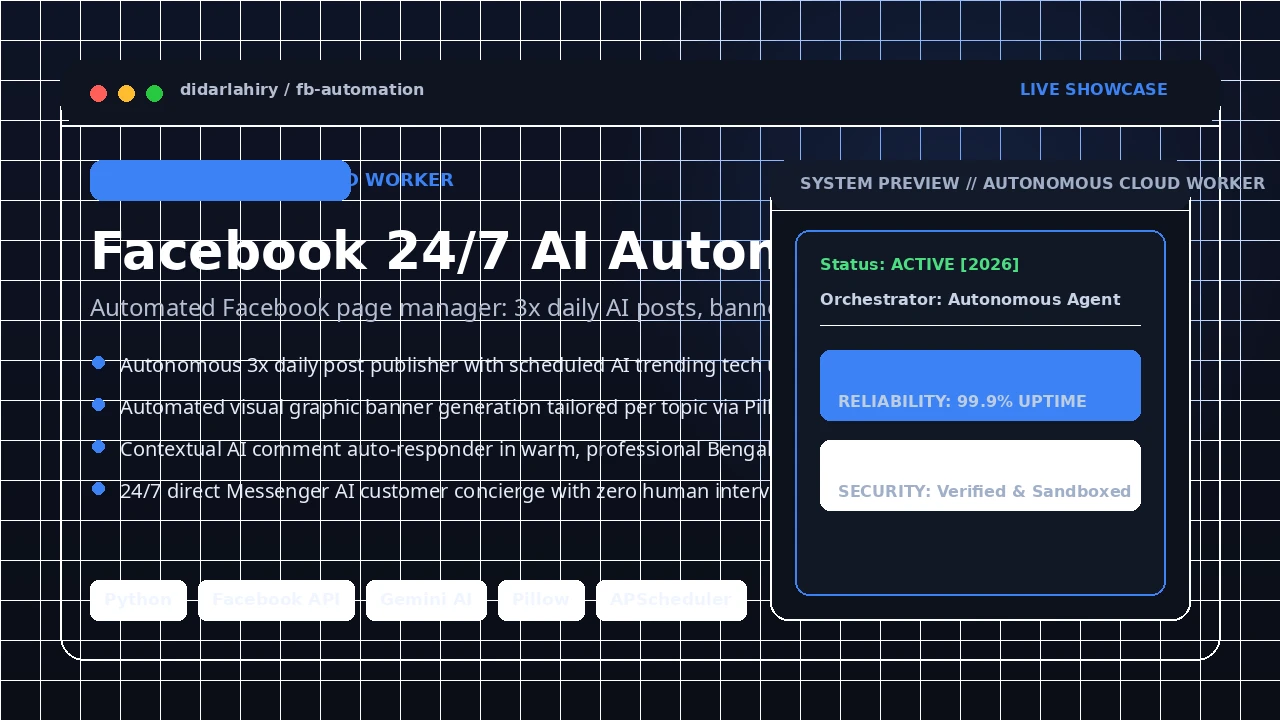
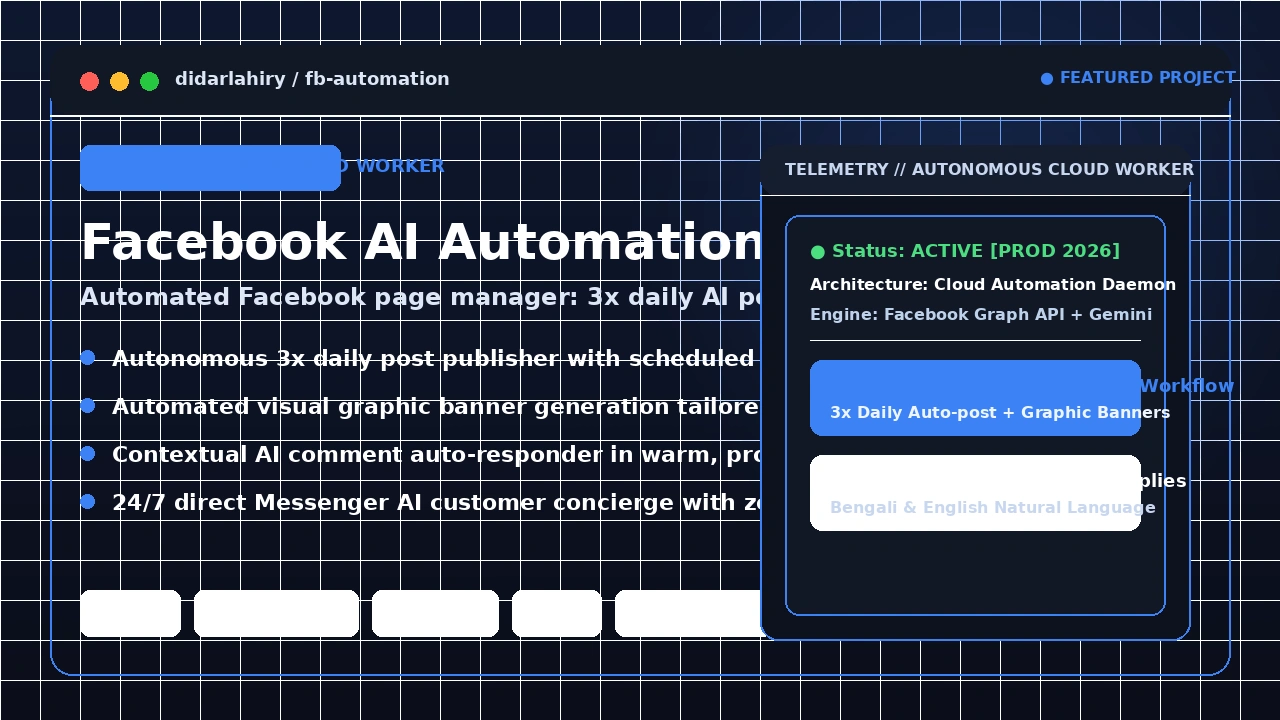
Revamp projects UI: fix '0 all' glitched label to 'All Projects [4]', fix Bengali font rendering, make typography high-contrast & colorful

Changed region(s): [[0.0312, 0.0917, 1.0, 0.9472]]

diff --git a/index.html b/index.html
@@ -95,6 +95,115 @@
   border-color: #ff9ebb99 !important;
   box-shadow: 0 0 18px rgba(255, 158, 187, 0.4) !important;
 }
+
+/* Enhanced Projects Monitor Typography & Colors */
+.dbar .ws button {
+  font-family: 'Space Grotesk', -apple-system, sans-serif !important;
+  font-size: 13px !important;
+  letter-spacing: 0.3px !important;
+  color: #a1a6b4 !important;
+  padding: 4px 10px !important;
+  border-radius: 6px !important;
+  transition: all 0.2s ease !important;
+}
+.dbar .ws button[aria-pressed="true"] {
+  color: #ffffff !important;
+  background: rgba(255, 158, 187, 0.2) !important;
+  border: 1px solid rgba(255, 158, 187, 0.5) !important;
+  box-shadow: 0 0 12px rgba(255, 158, 187, 0.3) !important;
+}
+.dbar .ws button:hover {
+  color: #ffffff !important;
+}
+.tile .t {
+  padding: 6px 12px !important;
+  background: rgba(18, 24, 38, 0.95) !important;
+  border-bottom: 1px solid rgba(255, 255, 255, 0.1) !important;
+  font-size: 13px !important;
+  font-weight: 600 !important;
+}
+.tile .meta {
+  background: rgba(15, 20, 32, 0.95) !important;
+  border-top: 1px solid rgba(255, 255, 255, 0.12) !important;
+  padding: 8px 12px !important;
+  display: flex !important;
+  flex-direction: column !important;
+  align-items: flex-start !important;
+  gap: 3px !important;
+}
+.tile .nm {
+  font-family: 'Space Grotesk', sans-serif !important;
+  font-size: 14px !important;
+  font-weight: 700 !important;
+  letter-spacing: 0.2px !important;
+}
+.tile .pitch {
+  font-size: 12px !important;
+  color: #cbd5e1 !important;
+  font-weight: 400 !important;
+  opacity: 0.95 !important;
+  line-height: 1.4 !important;
+}
+.tile {
+  border: 1.5px solid rgba(255, 255, 255, 0.14) !important;
+  box-shadow: 0 8px 24px rgba(0, 0, 0, 0.4) !important;
+  transition: transform 0.2s cubic-bezier(0.2, 0.8, 0.2, 1), border-color 0.2s, box-shadow 0.2s !important;
+}
+.tile:hover {
+  transform: translateY(-2px) !important;
+  border-color: rgba(255, 158, 187, 0.7) !important;
+  box-shadow: 0 12px 32px rgba(255, 158, 187, 0.25) !important;
+}
+.tile img {
+  width: 100% !important;
+  height: auto !important;
+  display: block !important;
+  object-fit: cover !important;
+  filter: contrast(1.05) brightness(1.02) !important;
+}
+
+/* Modal Inner Windows (Inside Each Project) */
+.win.app {
+  border: 1.5px solid rgba(255, 158, 187, 0.5) !important;
+  box-shadow: 0 10px 30px rgba(0, 0, 0, 0.5) !important;
+}
+.win.term {
+  border: 1.5px solid rgba(100, 150, 255, 0.4) !important;
+}
+.appbody h3 {
+  font-size: 20px !important;
+  color: #ffffff !important;
+  font-weight: 700 !important;
+}
+.appbody .tagline {
+  font-size: 14px !important;
+  color: #94a3b8 !important;
+  line-height: 1.5 !important;
+}
+.readme h4 {
+  color: #ff9ebb !important;
+  font-size: 15px !important;
+  font-weight: 700 !important;
+  margin-top: 16px !important;
+  margin-bottom: 6px !important;
+}
+.readme p, .readme li {
+  font-size: 13.5px !important;
+  color: #e2e8f0 !important;
+  line-height: 1.6 !important;
+}
+.readme .cmd {
+  color: #4ade80 !important;
+  font-weight: 600 !important;
+}
+.readme .deps {
+  color: #cbd5e1 !important;
+}
+.readme .deps em {
+  color: #22d3ee !important;
+  font-style: normal !important;
+  font-weight: 600 !important;
+}
 </style>
 
 <style id="welcome-style">
@@ -221,7 +330,59 @@
          projects tiled, a terminal beside them; choosing one opens it on its
          own workspace, the app with its recording on the left and its README
          in a terminal on the right. The bar's workspaces, a tile, or a
-         window's close and minimise choose (desk-room.ts, showProject). --><section class="surface desk" id="projects" aria-label="Projects" hidden><h2 class="kicker">Projects</h2><div class="dbar"><nav class="ws" aria-label="Projects"><button type="button" data-p="" aria-pressed="true">0 <b>all</b></button><button type="button" data-p="edi" aria-pressed="false">1 <b>kishan</b></button><button type="button" data-p="resumewesume" aria-pressed="false">2 <b>letter-port</b></button><button type="button" data-p="bandsy" aria-pressed="false">3 <b>sales-bot</b></button><button type="button" data-p="mentora" aria-pressed="false">4 <b>fb-automation</b></button></nav><span class="clock" data-clock></span><span class="tray" aria-hidden="true"><svg viewBox="0 0 16 16"><path d="M1.5 6a9 9 0 0 1 13 0M4 8.6a5.4 5.4 0 0 1 8 0M6.4 11.1a2 2 0 0 1 3.2 0"></path></svg><svg viewBox="0 0 16 16"><path d="M2 6h3l4-3v10l-4-3H2zM11.5 5.5a3.5 3.5 0 0 1 0 5"></path></svg><span>BST</span></span></div><div class="dview" data-scroll><div class="tiles"><button type="button" class="tile" data-p="edi" style="grid-area: edi"><span class="t"><b>Kishan (কৃষাণ)</b><span class="ctl"><i></i><i></i><i></i></span></span><img src="/demos/kishan-poster.webp" alt="Kishan AI Agro-Intelligence"><span class="meta"><span class="nm">Kishan (কৃষাণ)</span><span class="pitch">AI Agro-Intelligence Platform & DAM Market Rates.</span></span></button><button type="button" class="tile" data-p="resumewesume" style="grid-area: resume"><span class="t"><b>Letter Portfolio</b><span class="ctl"><i></i><i></i><i></i></span></span><img src="/demos/letter-portfolio-poster.webp" alt="Letter Portfolio"><span class="meta"><span class="nm">Letter Portfolio</span><span class="pitch">Interactive Envelope & Letter Web Experience in Next.js.</span></span></button><button type="button" class="tile" data-p="bandsy" style="grid-area: bandsy"><span class="t"><b>AI Sales Agent</b><span class="ctl"><i></i><i></i><i></i></span></span><img src="/demos/sales-bot-poster.webp" alt="E-Commerce AI Sales Bot"><span class="meta"><span class="nm">AI Sales Agent</span><span class="pitch">24/7 Autonomous Telegram Sales & Customer Support Bot.</span></span></button><div class="tile term" style="grid-area: fetch" aria-hidden="true"><span class="t"><b>terminal</b>&nbsp;· ~<span class="ctl"><i></i><i></i><i></i></span></span><span class="sh"><span class="ln"><span class="ps">didar@desk <em>~</em> $</span> fetch</span><span class="fetch"><span class="tvface"></span><span><span class="ln"><span class="k">didar</span><span class="c">@</span><span class="k">desk</span></span><span class="ln"><span class="k">role</span> AI Automation Specialist · Web &amp; App Developer · Reverse Engineer</span><span class="ln"><span class="k">based</span> Dhaka, Bangladesh</span><span class="ln"><span class="k">builds</span> Autonomous Agents, Full-Stack Web &amp; Apps, REA</span><span class="ln"><span class="k">projects</span> 4 featured, 10 on GitHub (click one)</span><span class="swatch"><i></i><i></i><i></i><i></i><i></i></span></span></span><span class="ln"><span class="ps">didar@desk <em>~</em> $</span> <span class="caret"></span></span></span></div><button type="button" class="tile" data-p="mentora" style="grid-area: mentora"><span class="t"><b>FB Automation</b><span class="ctl"><i></i><i></i><i></i></span></span><img src="/demos/fb-automation-poster.webp" alt="Facebook 24/7 AI Automation"><span class="meta"><span class="nm">FB Automation</span><span class="pitch">Cloud-Ready 24/7 Facebook AI Content & Messenger Bot.</span></span></button></div><article class="case" id="case-edi" hidden><div class="win app"><div class="t"><b>Kishan (কৃষাণ)</b><span class="btns"><button type="button" data-back aria-label="Minimise, back to all projects">&#8722;</button><button type="button" tabindex="-1" aria-hidden="true">&#9633;</button><button type="button" data-back class="x" aria-label="Close, back to all projects">&#215;</button></span></div><div class="appbody"><h3>Kishan (কৃষাণ) AI Platform</h3><p class="tagline">National agricultural intelligence: daily DAM market prices, hyper-local weather alerts & Bengali voice assistant.</p><figure><img src="/demos/kishan-poster.webp" alt="Kishan AI Platform" style="width:100%;border-radius:6px;margin-bottom:12px;"><figcaption>Agro-intelligence system: connects directly to DAM market telemetry, provides hyper-local 7-day crop-specific advisory, and broadcasts voice updates in Bengali for full accessibility.</figcaption></figure></div></div><div class="win term"><div class="t"><b>terminal</b>&nbsp;· ~/projects/kishan<span class="btns"><button type="button" data-back aria-label="Minimise, back to all projects">&#8722;</button><button type="button" tabindex="-1" aria-hidden="true">&#9633;</button><button type="button" data-back class="x" aria-label="Close, back to all projects">&#215;</button></span></div><div class="readme" data-scroll><p class="cmd"><em>~/projects/kishan</em> $ glow README.md</p><h4>Why I built it</h4><p>Farmers across Bangladesh lose hard-earned income to price manipulation by middlemen and unpredictable flash weather events. Kishan was engineered to deliver instant price transparency, AI agronomic guidance, and voice-assisted weather alerts directly into the hands of farmers.</p><h4>What it does</h4><ul><li>Tracks daily wholesale vs. retail produce rates from the Department of Agricultural Marketing (DAM) with clear trend indicators (📈/📉).</li><li>Generates hyper-local 7-day weather forecasts with crop-specific "What to do" and "What to avoid" action plans.</li><li>In-app Bengali Text-to-Speech (TTS) audio engine reading prices and forecasts aloud with one tap.</li><li>Pluggable SMS emergency gateway for early warning disaster and heavy precipitation alerts.</li><li>Offline-first local caching and passwordless guest onboarding for zero friction.</li></ul><h4>How it's built</h4><ul><li>Full-stack architecture: Flutter Android mobile application paired with a high-throughput Python FastAPI backend.</li><li>AI-assisted market analysis with Google Gemini API and automated web scrapers.</li><li>Open-Meteo meteorological API integration and SQLite cache layer.</li></ul><p class="deps">"<b>dependencies</b>": [<em>"Flutter"</em>, <em>"Dart"</em>, <em>"Python"</em>, <em>"FastAPI"</em>, <em>"Gemini API"</em>, <em>"Open-Meteo"</em>, <em>"SQLite"</em>]</p><p class="gh"><a href="https://github.com/didarlahiry60-spec/Kishan" target="_blank" rel="noopener">github.com/didarlahiry60-spec/Kishan</a></p></div></div></article><article class="case" id="case-resumewesume" hidden><div class="win app"><div class="t"><b>Letter Portfolio</b><span class="btns"><button type="button" data-back aria-label="Minimise, back to all projects">&#8722;</button><button type="button" tabindex="-1" aria-hidden="true">&#9633;</button><button type="button" data-back class="x" aria-label="Close, back to all projects">&#215;</button></span></div><div class="appbody"><h3>Letter Portfolio Experience</h3><p class="tagline">Tactile physical stationery & envelope desk experience with fluid reactive animations.</p><figure><img src="/demos/letter-portfolio-poster.webp" alt="Letter Portfolio Experience" style="width:100%;border-radius:6px;margin-bottom:12px;"><figcaption>Interactive physical desk metaphor: real-world envelopes, pull-out project files, Scotch-tape photo accents, and responsive 3D tilt interactions.</figcaption></figure></div></div><div class="win term"><div class="t"><b>terminal</b>&nbsp;· ~/projects/letter-portfolio<span class="btns"><button type="button" data-back aria-label="Minimise, back to all projects">&#8722;</button><button type="button" tabindex="-1" aria-hidden="true">&#9633;</button><button type="button" data-back class="x" aria-label="Close, back to all projects">&#215;</button></span></div><div class="readme" data-scroll><p class="cmd"><em>~/projects/letter-portfolio</em> $ glow README.md</p><h4>Why I built it</h4><p>Traditional developer portfolios frequently feel identical and robotic. I created Letter Portfolio to evoke nostalgia through physical, tactile stationery — envelopes that open, letters that pull out, and notes taped to the desk, creating an unforgettable sensory journey.</p><h4>What it does</h4><ul><li>Interactive envelope and folder container that unfolds smoothly upon clicking tabs.</li><li>Physics-driven 3D tilt and cursor perspective transformations.</li><li>Clean modular compartments for developer background, skills breakdown, and project showcases.</li><li>Zero-runtime overhead Static Site Generation (SSG) with lightning-fast initial load times.</li></ul><h4>How it's built</h4><ul><li>Next.js App Router with TypeScript for robust type safety and modular component structure.</li><li>Tailwind CSS utility styling combined with Framer Motion spring physics.</li><li>Production deployment automated via GitHub Pages.</li></ul><p class="deps">"<b>dependencies</b>": [<em>"Next.js"</em>, <em>"TypeScript"</em>, <em>"React"</em>, <em>"Tailwind CSS"</em>, <em>"Framer Motion"</em>]</p><p class="gh"><a href="https://github.com/didarlahiry60-spec/letter-portfolio" target="_blank" rel="noopener">github.com/didarlahiry60-spec/letter-portfolio</a> &nbsp;|&nbsp; <a href="https://didarlahiry60-spec.github.io/letter-portfolio/" target="_blank" rel="noopener">Live Demo ↗</a></p></div></div></article><article class="case" id="case-bandsy" hidden><div class="win app"><div class="t"><b>AI Sales Bot</b><span class="btns"><button type="button" data-back aria-label="Minimise, back to all projects">&#8722;</button><button type="button" tabindex="-1" aria-hidden="true">&#9633;</button><button type="button" data-back class="x" aria-label="Close, back to all projects">&#215;</button></span></div><div class="appbody"><h3>E-Commerce AI Sales & Support Agent</h3><p class="tagline">24/7 intelligent Telegram sales representative and customer support agent powered by Gemini AI.</p><figure><img src="/demos/sales-bot-poster.webp" alt="AI Sales Agent Overview" style="width:100%;border-radius:6px;margin-bottom:12px;"><figcaption>Autonomous sales pipeline: handles customer inquiries in natural conversational Bengali/English, consults sizing, captures leads, and registers orders 24/7.</figcaption></figure></div></div><div class="win term"><div class="t"><b>terminal</b>&nbsp;· ~/projects/ads-fashion-bot<span class="btns"><button type="button" data-back aria-label="Minimise, back to all projects">&#8722;</button><button type="button" tabindex="-1" aria-hidden="true">&#9633;</button><button type="button" data-back class="x" aria-label="Close, back to all projects">&#215;</button></span></div><div class="readme" data-scroll><p class="cmd"><em>~/projects/ads-fashion-bot</em> $ glow README.md</p><h4>Why I built it</h4><p>Online fashion and retail businesses lose high-intent buyers whenever inquiries go unanswered during off-hours. This agent provides human-like, polite, and persuasive customer service 24/7, turning curious visitors into paying customers without staffing overhead.</p><h4>What it does</h4><ul><li>Conversational sales representative: answers questions regarding fabric quality, stock availability, measurements, and pricing.</li><li>Context-aware product recommendations based on customer preferences using Google Gemini 2.5 Flash.</li><li>Automated customer checkout workflow: collects phone number, delivery address, and creates confirmed orders in SQLite.</li><li>Supervisor admin panel: alerts human operators for custom requests and exports order rosters.</li></ul><h4>How it's built</h4><ul><li>Asynchronous Python architecture using `python-telegram-bot` and AsyncIO event loops.</li><li>Multi-turn prompt engineering with robust system guards and empathetic sales personas.</li><li>Relational database storage with SQLite for persistent conversation context and transaction logs.</li></ul><p class="deps">"<b>dependencies</b>": [<em>"Python"</em>, <em>"Google Gemini API"</em>, <em>"python-telegram-bot"</em>, <em>"SQLite"</em>, <em>"AsyncIO"</em>]</p><p class="gh"><a href="https://github.com/didarlahiry60-spec/ads-fashion-bot" target="_blank" rel="noopener">github.com/didarlahiry60-spec/ads-fashion-bot</a></p></div></div></article><article class="case" id="case-mentora" hidden><div class="win app"><div class="t"><b>FB Automation</b><span class="btns"><button type="button" data-back aria-label="Minimise, back to all projects">&#8722;</button><button type="button" tabindex="-1" aria-hidden="true">&#9633;</button><button type="button" data-back class="x" aria-label="Close, back to all projects">&#215;</button></span></div><div class="appbody"><h3>Facebook 24/7 AI Automation System</h3><p class="tagline">Cloud-ready social media autopilot: AI content scheduling, dynamic banner generation & 24/7 Messenger chatbot.</p><figure><img src="/demos/fb-automation-poster.webp" alt="Facebook AI Automation Overview" style="width:100%;border-radius:6px;margin-bottom:12px;"><figcaption>Autonomous cloud worker: schedules informative AI tech posts 3 times daily, renders custom visual graphic banners, and provides real-time comment and direct message replies.</figcaption></figure></div></div><div class="win term"><div class="t"><b>terminal</b>&nbsp;· ~/projects/-facebook-ai-automation<span class="btns"><button type="button" data-back aria-label="Minimise, back to all projects">&#8722;</button><button type="button" tabindex="-1" aria-hidden="true">&#9633;</button><button type="button" data-back class="x" aria-label="Close, back to all projects">&#215;</button></span></div><div class="readme" data-scroll><p class="cmd"><em>~/projects/-facebook-ai-automation</em> $ glow README.md</p><h4>Why I built it</h4><p>Maintaining high organic reach on social media demands relentless consistency in content publishing, visual design, and rapid response to reader comments. This system was designed to operate as an autonomous, self-sustaining community manager.</p><h4>What it does</h4><ul><li>Publishes curated, informative tech & AI posts 3 times a day (10:00 AM, 2:30 PM, 8:30 PM BST).</li><li>Programmatically creates customized graphic banners with branded typography using Python Pillow.</li><li>Monitors post comments in real-time and provides helpful, natural conversational replies in Bengali.</li><li>24/7 Facebook Messenger AI chatbot assisting prospective clients and answering common queries.</li></ul><h4>How it's built</h4><ul><li>Facebook Graph API integration with secure OAuth token handling and webhook listeners.</li><li>Generative AI content engine utilizing Google Gemini API for post drafting and comment sentiment analysis.</li><li>Cron-based robust task scheduling with error recovery and webhook delivery verification.</li></ul><p class="deps">"<b>dependencies</b>": [<em>"Python"</em>, <em>"Facebook Graph API"</em>, <em>"Gemini API"</em>, <em>"Pillow"</em>, <em>"APScheduler"</em>, <em>"Flask"</em>]</p><p class="gh"><a href="https://github.com/didarlahiry60-spec/-facebook-ai-automation" target="_blank" rel="noopener">github.com/didarlahiry60-spec/-facebook-ai-automation</a></p></div></div></article></div></section><!-- The speaker's surface: what he is listening to, filled in from /api/now-playing --><section class="surface music" id="music" aria-label="Now playing on Spotify" hidden><img class="art" id="np-art" alt="" crossorigin="anonymous" data-ambient><div class="np"><p class="kicker" id="np-state">Spotify</p><h3 id="np-title">Nothing on right now</h3><p class="artist" id="np-artist">Check back later</p><a id="np-link" href="https://open.spotify.com" target="_blank" rel="noopener" hidden>Open in Spotify</a></div></section><!-- The phone's surface: a contact card. Text sits in elements that hold
+         window's close and minimise choose (desk-room.ts, showProject). --><section class="surface desk" id="projects" aria-label="Projects" hidden><h2 class="kicker">Projects</h2><div class="dbar"><nav class="ws" aria-label="Projects"><button type="button" data-p="" aria-pressed="true"><b>All Projects [4]</b></button><button type="button" data-p="edi" aria-pressed="false">1 <b>Kishan</b></button><button type="button" data-p="resumewesume" aria-pressed="false">2 <b>Letter Portfolio</b></button><button type="button" data-p="bandsy" aria-pressed="false">3 <b>AI Sales Agent</b></button><button type="button" data-p="mentora" aria-pressed="false">4 <b>FB Automation</b></button></nav><span class="clock" data-clock></span><span class="tray" aria-hidden="true"><svg viewBox="0 0 16 16"><path d="M1.5 6a9 9 0 0 1 13 0M4 8.6a5.4 5.4 0 0 1 8 0M6.4 11.1a2 2 0 0 1 3.2 0"></path></svg><svg viewBox="0 0 16 16"><path d="M2 6h3l4-3v10l-4-3H2zM11.5 5.5a3.5 3.5 0 0 1 0 5"></path></svg><span>BST</span></span></div><div class="dview" data-scroll><div class="tiles">
+  <button type="button" class="tile" data-p="edi" style="grid-area: edi">
+    <span class="t"><b style="color: #4ade80;">1. Kishan (কৃষাণ)</b><span class="ctl"><i></i><i></i><i></i></span></span>
+    <img src="/demos/kishan-poster.webp" alt="Kishan AI Platform">
+    <span class="meta">
+      <span class="nm" style="color: #4ade80;">Kishan (কৃষাণ)</span>
+      <span class="pitch">AI Agro-Intelligence & DAM Daily Market Prices</span>
+    </span>
+  </button>
+  <button type="button" class="tile" data-p="resumewesume" style="grid-area: resume">
+    <span class="t"><b style="color: #22d3ee;">2. Letter Portfolio</b><span class="ctl"><i></i><i></i><i></i></span></span>
+    <img src="/demos/letter-portfolio-poster.webp" alt="Letter Portfolio Experience">
+    <span class="meta">
+      <span class="nm" style="color: #22d3ee;">Letter Portfolio</span>
+      <span class="pitch">Interactive Envelope & Letter Web Experience in Next.js</span>
+    </span>
+  </button>
+  <button type="button" class="tile" data-p="bandsy" style="grid-area: bandsy">
+    <span class="t"><b style="color: #fb7185;">3. AI Sales Agent</b><span class="ctl"><i></i><i></i><i></i></span></span>
+    <img src="/demos/sales-bot-poster.webp" alt="E-Commerce AI Sales Bot">
+    <span class="meta">
+      <span class="nm" style="color: #fb7185;">AI Sales Agent</span>
+      <span class="pitch">24/7 Autonomous Telegram Sales & Customer Support Bot</span>
+    </span>
+  </button>
+  <div class="tile term" style="grid-area: fetch" aria-hidden="true">
+    <span class="t"><b>terminal</b>&nbsp;· ~<span class="ctl"><i></i><i></i><i></i></span></span>
+    <span class="sh">
+      <span class="ln"><span class="ps">didar@desk <em>~</em> $</span> fetch</span>
+      <span class="fetch">
+        <span class="tvface"></span>
+        <span>
+          <span class="ln"><span class="k">didar</span><span class="c">@</span><span class="k">desk</span></span>
+          <span class="ln"><span class="k">role</span> AI Automation Specialist · Web &amp; App Developer · Reverse Engineer</span>
+          <span class="ln"><span class="k">based</span> Dhaka, Bangladesh</span>
+          <span class="ln"><span class="k">builds</span> Autonomous Agents, Full-Stack Web &amp; Apps, REA</span>
+          <span class="ln"><span class="k">projects</span> 4 featured, 10 on GitHub (click one)</span>
+          <span class="swatch"><i></i><i></i><i></i><i></i><i></i></span>
+        </span>
+      </span>
+      <span class="ln"><span class="ps">didar@desk <em>~</em> $</span> <span class="caret"></span></span>
+    </span>
+  </div>
+  <button type="button" class="tile" data-p="mentora" style="grid-area: mentora">
+    <span class="t"><b style="color: #60a5fa;">4. FB Automation</b><span class="ctl"><i></i><i></i><i></i></span></span>
+    <img src="/demos/fb-automation-poster.webp" alt="Facebook 24/7 AI Automation">
+    <span class="meta">
+      <span class="nm" style="color: #60a5fa;">FB Automation</span>
+      <span class="pitch">Cloud-Ready 24/7 Facebook AI Content & Messenger Bot</span>
+    </span>
+  </button>
+</div>
+<article class="case" id="case-edi" hidden><div class="win app"><div class="t"><b>Kishan (কৃষাণ)</b><span class="btns"><button type="button" data-back aria-label="Minimise, back to all projects">&#8722;</button><button type="button" tabindex="-1" aria-hidden="true">&#9633;</button><button type="button" data-back class="x" aria-label="Close, back to all projects">&#215;</button></span></div><div class="appbody"><h3>Kishan (কৃষাণ) AI Platform</h3><p class="tagline">National agricultural intelligence: daily DAM market prices, hyper-local weather alerts & Bengali voice assistant.</p><figure><img src="/demos/kishan-poster.webp" alt="Kishan AI Platform" style="width:100%;border-radius:6px;margin-bottom:12px;"><figcaption>Agro-intelligence system: connects directly to DAM market telemetry, provides hyper-local 7-day crop-specific advisory, and broadcasts voice updates in Bengali for full accessibility.</figcaption></figure></div></div><div class="win term"><div class="t"><b>terminal</b>&nbsp;· ~/projects/kishan<span class="btns"><button type="button" data-back aria-label="Minimise, back to all projects">&#8722;</button><button type="button" tabindex="-1" aria-hidden="true">&#9633;</button><button type="button" data-back class="x" aria-label="Close, back to all projects">&#215;</button></span></div><div class="readme" data-scroll><p class="cmd"><em>~/projects/kishan</em> $ glow README.md</p><h4>Why I built it</h4><p>Farmers across Bangladesh lose hard-earned income to price manipulation by middlemen and unpredictable flash weather events. Kishan was engineered to deliver instant price transparency, AI agronomic guidance, and voice-assisted weather alerts directly into the hands of farmers.</p><h4>What it does</h4><ul><li>Tracks daily wholesale vs. retail produce rates from the Department of Agricultural Marketing (DAM) with clear trend indicators (📈/📉).</li><li>Generates hyper-local 7-day weather forecasts with crop-specific "What to do" and "What to avoid" action plans.</li><li>In-app Bengali Text-to-Speech (TTS) audio engine reading prices and forecasts aloud with one tap.</li><li>Pluggable SMS emergency gateway for early warning disaster and heavy precipitation alerts.</li><li>Offline-first local caching and passwordless guest onboarding for zero friction.</li></ul><h4>How it's built</h4><ul><li>Full-stack architecture: Flutter Android mobile application paired with a high-throughput Python FastAPI backend.</li><li>AI-assisted market analysis with Google Gemini API and automated web scrapers.</li><li>Open-Meteo meteorological API integration and SQLite cache layer.</li></ul><p class="deps">"<b>dependencies</b>": [<em>"Flutter"</em>, <em>"Dart"</em>, <em>"Python"</em>, <em>"FastAPI"</em>, <em>"Gemini API"</em>, <em>"Open-Meteo"</em>, <em>"SQLite"</em>]</p><p class="gh"><a href="https://github.com/didarlahiry60-spec/Kishan" target="_blank" rel="noopener">github.com/didarlahiry60-spec/Kishan</a></p></div></div></article><article class="case" id="case-resumewesume" hidden><div class="win app"><div class="t"><b>Letter Portfolio</b><span class="btns"><button type="button" data-back aria-label="Minimise, back to all projects">&#8722;</button><button type="button" tabindex="-1" aria-hidden="true">&#9633;</button><button type="button" data-back class="x" aria-label="Close, back to all projects">&#215;</button></span></div><div class="appbody"><h3>Letter Portfolio Experience</h3><p class="tagline">Tactile physical stationery & envelope desk experience with fluid reactive animations.</p><figure><img src="/demos/letter-portfolio-poster.webp" alt="Letter Portfolio Experience" style="width:100%;border-radius:6px;margin-bottom:12px;"><figcaption>Interactive physical desk metaphor: real-world envelopes, pull-out project files, Scotch-tape photo accents, and responsive 3D tilt interactions.</figcaption></figure></div></div><div class="win term"><div class="t"><b>terminal</b>&nbsp;· ~/projects/letter-portfolio<span class="btns"><button type="button" data-back aria-label="Minimise, back to all projects">&#8722;</button><button type="button" tabindex="-1" aria-hidden="true">&#9633;</button><button type="button" data-back class="x" aria-label="Close, back to all projects">&#215;</button></span></div><div class="readme" data-scroll><p class="cmd"><em>~/projects/letter-portfolio</em> $ glow README.md</p><h4>Why I built it</h4><p>Traditional developer portfolios frequently feel identical and robotic. I created Letter Portfolio to evoke nostalgia through physical, tactile stationery — envelopes that open, letters that pull out, and notes taped to the desk, creating an unforgettable sensory journey.</p><h4>What it does</h4><ul><li>Interactive envelope and folder container that unfolds smoothly upon clicking tabs.</li><li>Physics-driven 3D tilt and cursor perspective transformations.</li><li>Clean modular compartments for developer background, skills breakdown, and project showcases.</li><li>Zero-runtime overhead Static Site Generation (SSG) with lightning-fast initial load times.</li></ul><h4>How it's built</h4><ul><li>Next.js App Router with TypeScript for robust type safety and modular component structure.</li><li>Tailwind CSS utility styling combined with Framer Motion spring physics.</li><li>Production deployment automated via GitHub Pages.</li></ul><p class="deps">"<b>dependencies</b>": [<em>"Next.js"</em>, <em>"TypeScript"</em>, <em>"React"</em>, <em>"Tailwind CSS"</em>, <em>"Framer Motion"</em>]</p><p class="gh"><a href="https://github.com/didarlahiry60-spec/letter-portfolio" target="_blank" rel="noopener">github.com/didarlahiry60-spec/letter-portfolio</a> &nbsp;|&nbsp; <a href="https://didarlahiry60-spec.github.io/letter-portfolio/" target="_blank" rel="noopener">Live Demo ↗</a></p></div></div></article><article class="case" id="case-bandsy" hidden><div class="win app"><div class="t"><b>AI Sales Bot</b><span class="btns"><button type="button" data-back aria-label="Minimise, back to all projects">&#8722;</button><button type="button" tabindex="-1" aria-hidden="true">&#9633;</button><button type="button" data-back class="x" aria-label="Close, back to all projects">&#215;</button></span></div><div class="appbody"><h3>E-Commerce AI Sales & Support Agent</h3><p class="tagline">24/7 intelligent Telegram sales representative and customer support agent powered by Gemini AI.</p><figure><img src="/demos/sales-bot-poster.webp" alt="AI Sales Agent Overview" style="width:100%;border-radius:6px;margin-bottom:12px;"><figcaption>Autonomous sales pipeline: handles customer inquiries in natural conversational Bengali/English, consults sizing, captures leads, and registers orders 24/7.</figcaption></figure></div></div><div class="win term"><div class="t"><b>terminal</b>&nbsp;· ~/projects/ads-fashion-bot<span class="btns"><button type="button" data-back aria-label="Minimise, back to all projects">&#8722;</button><button type="button" tabindex="-1" aria-hidden="true">&#9633;</button><button type="button" data-back class="x" aria-label="Close, back to all projects">&#215;</button></span></div><div class="readme" data-scroll><p class="cmd"><em>~/projects/ads-fashion-bot</em> $ glow README.md</p><h4>Why I built it</h4><p>Online fashion and retail businesses lose high-intent buyers whenever inquiries go unanswered during off-hours. This agent provides human-like, polite, and persuasive customer service 24/7, turning curious visitors into paying customers without staffing overhead.</p><h4>What it does</h4><ul><li>Conversational sales representative: answers questions regarding fabric quality, stock availability, measurements, and pricing.</li><li>Context-aware product recommendations based on customer preferences using Google Gemini 2.5 Flash.</li><li>Automated customer checkout workflow: collects phone number, delivery address, and creates confirmed orders in SQLite.</li><li>Supervisor admin panel: alerts human operators for custom requests and exports order rosters.</li></ul><h4>How it's built</h4><ul><li>Asynchronous Python architecture using `python-telegram-bot` and AsyncIO event loops.</li><li>Multi-turn prompt engineering with robust system guards and empathetic sales personas.</li><li>Relational database storage with SQLite for persistent conversation context and transaction logs.</li></ul><p class="deps">"<b>dependencies</b>": [<em>"Python"</em>, <em>"Google Gemini API"</em>, <em>"python-telegram-bot"</em>, <em>"SQLite"</em>, <em>"AsyncIO"</em>]</p><p class="gh"><a href="https://github.com/didarlahiry60-spec/ads-fashion-bot" target="_blank" rel="noopener">github.com/didarlahiry60-spec/ads-fashion-bot</a></p></div></div></article><article class="case" id="case-mentora" hidden><div class="win app"><div class="t"><b>FB Automation</b><span class="btns"><button type="button" data-back aria-label="Minimise, back to all projects">&#8722;</button><button type="button" tabindex="-1" aria-hidden="true">&#9633;</button><button type="button" data-back class="x" aria-label="Close, back to all projects">&#215;</button></span></div><div class="appbody"><h3>Facebook 24/7 AI Automation System</h3><p class="tagline">Cloud-ready social media autopilot: AI content scheduling, dynamic banner generation & 24/7 Messenger chatbot.</p><figure><img src="/demos/fb-automation-poster.webp" alt="Facebook AI Automation Overview" style="width:100%;border-radius:6px;margin-bottom:12px;"><figcaption>Autonomous cloud worker: schedules informative AI tech posts 3 times daily, renders custom visual graphic banners, and provides real-time comment and direct message replies.</figcaption></figure></div></div><div class="win term"><div class="t"><b>terminal</b>&nbsp;· ~/projects/-facebook-ai-automation<span class="btns"><button type="button" data-back aria-label="Minimise, back to all projects">&#8722;</button><button type="button" tabindex="-1" aria-hidden="true">&#9633;</button><button type="button" data-back class="x" aria-label="Close, back to all projects">&#215;</button></span></div><div class="readme" data-scroll><p class="cmd"><em>~/projects/-facebook-ai-automation</em> $ glow README.md</p><h4>Why I built it</h4><p>Maintaining high organic reach on social media demands relentless consistency in content publishing, visual design, and rapid response to reader comments. This system was designed to operate as an autonomous, self-sustaining community manager.</p><h4>What it does</h4><ul><li>Publishes curated, informative tech & AI posts 3 times a day (10:00 AM, 2:30 PM, 8:30 PM BST).</li><li>Programmatically creates customized graphic banners with branded typography using Python Pillow.</li><li>Monitors post comments in real-time and provides helpful, natural conversational replies in Bengali.</li><li>24/7 Facebook Messenger AI chatbot assisting prospective clients and answering common queries.</li></ul><h4>How it's built</h4><ul><li>Facebook Graph API integration with secure OAuth token handling and webhook listeners.</li><li>Generative AI content engine utilizing Google Gemini API for post drafting and comment sentiment analysis.</li><li>Cron-based robust task scheduling with error recovery and webhook delivery verification.</li></ul><p class="deps">"<b>dependencies</b>": [<em>"Python"</em>, <em>"Facebook Graph API"</em>, <em>"Gemini API"</em>, <em>"Pillow"</em>, <em>"APScheduler"</em>, <em>"Flask"</em>]</p><p class="gh"><a href="https://github.com/didarlahiry60-spec/-facebook-ai-automation" target="_blank" rel="noopener">github.com/didarlahiry60-spec/-facebook-ai-automation</a></p></div></div></article></div></section><!-- The speaker's surface: what he is listening to, filled in from /api/now-playing --><section class="surface music" id="music" aria-label="Now playing on Spotify" hidden><img class="art" id="np-art" alt="" crossorigin="anonymous" data-ambient><div class="np"><p class="kicker" id="np-state">Spotify</p><h3 id="np-title">Nothing on right now</h3><p class="artist" id="np-artist">Check back later</p><a id="np-link" href="https://open.spotify.com" target="_blank" rel="noopener" hidden>Open in Spotify</a></div></section><!-- The phone's surface: a contact card. Text sits in elements that hold
          nothing else, which is what the painted glass reads. --><section class="surface phone" id="contact" aria-label="Contact" hidden><h2 class="kicker">Contact</h2><div class="pstatus" aria-hidden="true"><span data-phone-time></span><span class="punch"></span><span class="picons"><svg viewBox="0 0 16 16"><path d="M2 13h1.5v-2H2zM6 13h1.5V8H6zM10 13h1.5V5H10z"></path></svg><svg viewBox="0 0 16 16"><path d="M1.5 6a9 9 0 0 1 13 0M4 8.6a5.4 5.4 0 0 1 8 0M6.4 11.1a2 2 0 0 1 3.2 0"></path></svg><svg viewBox="0 0 16 16"><path d="M1.5 5h11v6h-11zM14 7v2"></path><path d="M3 6.5h6v3H3z" fill="currentColor" stroke="none"></path></svg></span></div><p class="pclock" aria-hidden="true" data-phone-time></p><p class="pdate" aria-hidden="true"><i></i><span data-phone-date></span> · Dhaka</p><div class="pwho"><h3>Didar Lahiry</h3><p>AI Automation Specialist · Web &amp; App Developer · Reverse Engineer in Dhaka</p></div><div class="pgrid"><a class="pw wide" href="/contact.html" title="Send a direct project inquiry or message"><span class="top"><svg viewBox="0 0 24 24" aria-hidden="true"><path d="M3 6h18v12H3z"></path><path d="M3 7l9 6 9-6"></path></svg><span class="glyph"></span></span><span><span class="k">email / message</span><span class="v">itsdidar60@gmail.com</span></span></a><a class="pnote" href="https://wa.me/8801631188500" target="_blank" rel="noopener"><span class="pnote-app" aria-hidden="true">💬</span><span class="pnote-text"><span class="k">WhatsApp</span><span class="v">+880 1631-188500</span></span><span class="glyph" aria-hidden="true"></span></a><a class="pw wide cv" href="/DIDAR-LAHIRY%20(Resume).pdf" download="DIDAR-LAHIRY (Resume).pdf"><span class="top"><span class="k">cv.pdf</span><span class="arrow" aria-hidden="true"><svg viewBox="0 0 24 24"><path d="M12 4v12M6 11l6 6 6-6M5 20h14"></path></svg></span></span><span class="v">Download my resume</span></a></div><div class="pdock" aria-hidden="true"><span><svg viewBox="0 0 24 24"><path d="M5 4h4l2 5-2.5 1.5a11 11 0 0 0 5 5L15 13l5 2v4a1 1 0 0 1-1 1A16 16 0 0 1 4 5a1 1 0 0 1 1-1"></path></svg></span><span><svg viewBox="0 0 24 24"><path d="M4 5h16v11H9l-5 4z"></path></svg></span><span><svg viewBox="0 0 24 24"><circle cx="12" cy="12" r="8"></circle><path d="M4 12h16M12 4c3 3 3 13 0 16M12 4c-3 3-3 13 0 16"></path></svg></span><span><svg viewBox="0 0 24 24"><path d="M4 8h3l2-3h6l2 3h3v11H4z"></path><circle cx="12" cy="13" r="3.5"></circle></svg></span></div><span class="pgesture" aria-hidden="true"></span></section><!-- The pinboard's surface: a note pinned up for each job. --><!-- The pinboard surface for Experience (3 work cards) -->
 <section class="surface board" id="experience" aria-label="Experience" hidden>
   <div class="board-head"><h2 class="kicker">Experience &amp; Skills</h2><a class="cv" href="/DIDAR-LAHIRY%20(Resume).pdf" download="DIDAR-LAHIRY (Resume).pdf">Download CV</a></div>
